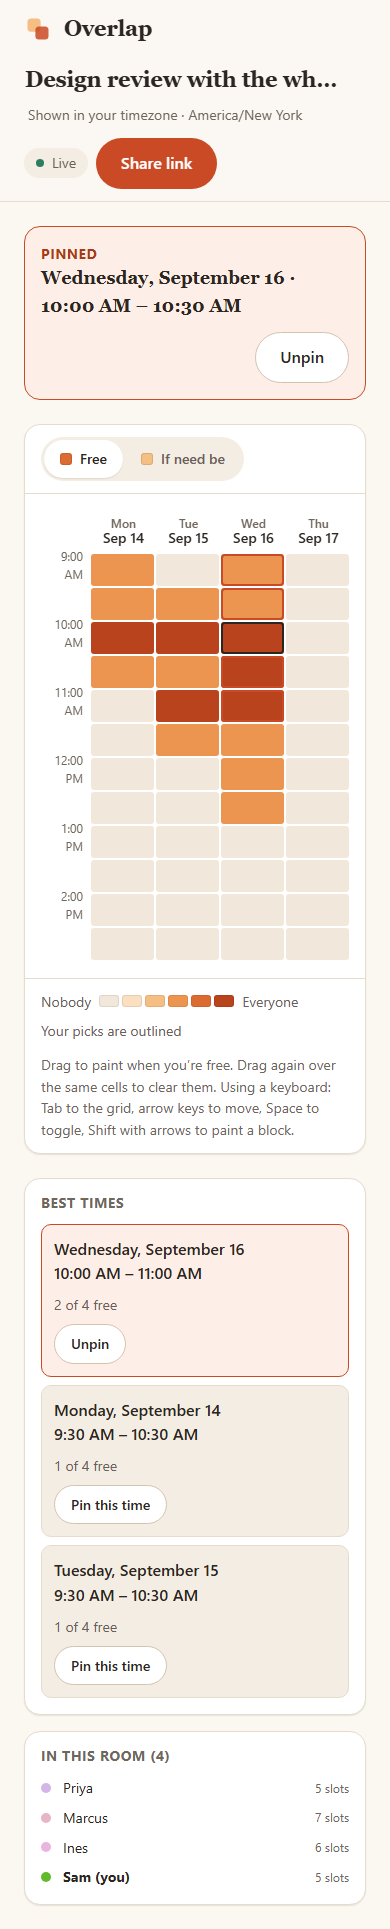
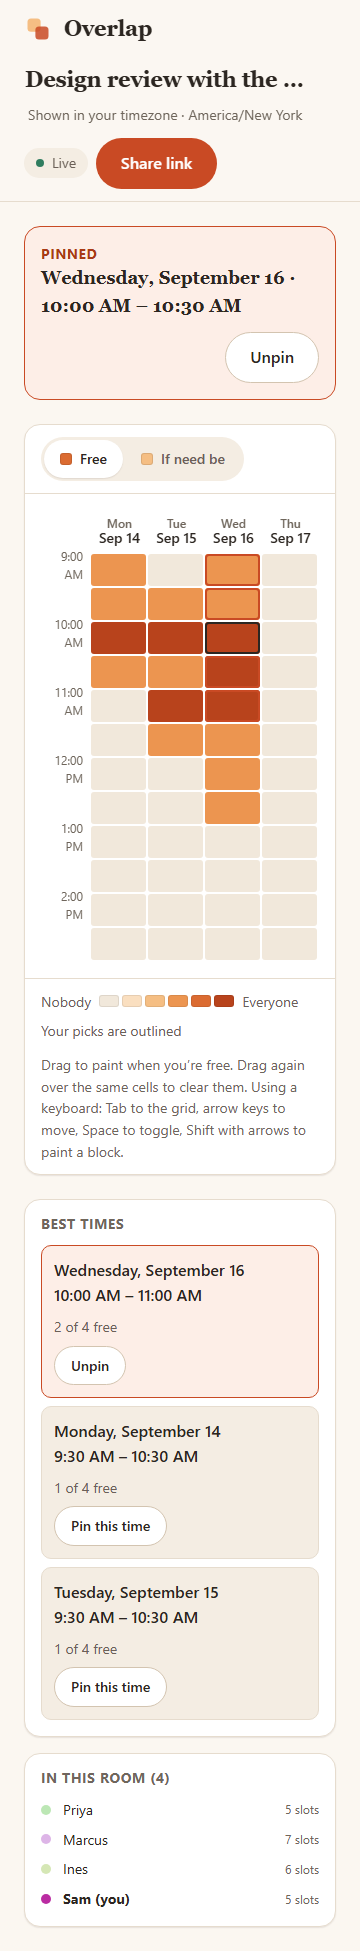
test(e2e): add per-route smoke coverage and re-shoot the evidence at 360

Changed region(s): [[0.0611, 0.0, 0.9472, 0.9953], [0.9167, 0.902, 0.9472, 0.9953]]

diff --git a/e2e/smoke.spec.ts b/e2e/smoke.spec.ts
@@ -1,0 +1,134 @@
+import { expect, test, type ConsoleMessage, type Page } from '@playwright/test';
+import { createRoomViaApi, joinRoom, ordinaryRoom } from './helpers.js';
+
+/**
+ * Per-route smoke: does it load, are the load-bearing elements there, and is the console clean.
+ *
+ * Deliberately separate from the journey specs. Those prove the product works; this proves every
+ * screen is *shippable* — nothing throwing in the background, nothing missing at 360px.
+ */
+
+interface Noise {
+  readonly kind: 'console' | 'pageerror' | 'requestfailed';
+  readonly text: string;
+}
+
+/**
+ * Everything the page complained about.
+ *
+ * Chrome logs a resource-level "Failed to load resource" for any non-2xx response, including
+ * ones the app asks for on purpose and handles — the room-existence probe answers 404 for a room
+ * that is genuinely gone, and that is the correct API design, not a defect. Rather than dropping
+ * those quietly, they are classified separately so a test can assert exactly which ones it
+ * expects and still fail on anything else.
+ */
+function watch(page: Page): { noise: Noise[]; probes: string[] } {
+  const noise: Noise[] = [];
+  const probes: string[] = [];
+
+  const isRoomProbe404 = (text: string): boolean =>
+    text.includes('Failed to load resource') && text.includes('404');
+
+  page.on('console', (message: ConsoleMessage) => {
+    const type = message.type();
+    if (type !== 'error' && type !== 'warning') return;
+    const text = message.text();
+    if (isRoomProbe404(text)) {
+      probes.push(text);
+      return;
+    }
+    noise.push({ kind: 'console', text: `${type}: ${text}` });
+  });
+
+  page.on('pageerror', (error) => {
+    noise.push({ kind: 'pageerror', text: error.message });
+  });
+
+  return { noise, probes };
+}
+
+const WIDTHS = [360, 768, 1440] as const;
+
+/** 360 is the floor the layout is designed to; nothing may spill sideways at any width. */
+async function expectNoSidewaysScroll(page: Page): Promise<void> {
+  for (const width of WIDTHS) {
+    await page.setViewportSize({ width, height: 800 });
+    await page.waitForTimeout(120);
+    const overflow = await page.evaluate(
+      () => document.documentElement.scrollWidth - document.documentElement.clientWidth,
+    );
+    expect(overflow, `page scrolls sideways at ${String(width)}px`).toBeLessThanOrEqual(1);
+  }
+}
+
+test.describe('every route loads clean', () => {
+  test('the landing page', async ({ page }) => {
+    const { noise, probes } = watch(page);
+
+    await page.goto('/');
+    await expect(page.getByRole('heading', { level: 1 })).toContainText('Find a time');
+    // The three-second test, as an assertion: what it does, and what to do first, both present
+    // without scrolling past the hero.
+    await expect(page.getByRole('button', { name: 'Create a room' })).toBeVisible();
+    await expect(page.locator('.demo__cells .demo__cell').first()).toBeVisible();
+    await expect(page.getByRole('button', { name: 'Create the room' })).toBeDisabled();
+
+    await expectNoSidewaysScroll(page);
+    expect(noise, 'console output on the landing page').toEqual([]);
+    expect(probes, 'the landing page probes nothing').toEqual([]);
+  });
+
+  test('the name prompt', async ({ page, request }) => {
+    const { noise } = watch(page);
+    const roomId = await createRoomViaApi(request, ordinaryRoom());
+
+    await page.goto(`/r/${roomId}`);
+    await expect(page.getByRole('dialog')).toBeVisible();
+    await expect(page.locator('#participant-name')).toBeFocused();
+    await expect(page.getByRole('button', { name: 'Start picking times' })).toBeDisabled();
+
+    await expectNoSidewaysScroll(page);
+    expect(noise, 'console output on the name prompt').toEqual([]);
+  });
+
+  test('a room you are the first into', async ({ page, request }) => {
+    const { noise } = watch(page);
+    const roomId = await createRoomViaApi(request, ordinaryRoom());
+    await joinRoom(page, roomId, 'Priya');
+
+    // Alone in a room, sharing is the primary action and the grid says what to do.
+    await expect(page.locator('.invite')).toBeVisible();
+    await expect(page.locator('.grid-invite__card')).toContainText('Drag across the times');
+    await expect(page.locator('.daylight-rail')).toBeVisible();
+    await expect(page.locator('.panel__title').first()).toBeVisible();
+
+    await expectNoSidewaysScroll(page);
+    expect(noise, 'console output in a room').toEqual([]);
+  });
+
+  test('a room that is gone', async ({ page }) => {
+    const { noise, probes } = watch(page);
+
+    await page.goto('/r/aaaaaaaaaaaaaaaaaaaaaa');
+    await expect(page.getByRole('heading', { name: /This room is gone/ })).toBeVisible();
+    await expect(page.getByRole('link', { name: 'Start a new room' })).toBeVisible();
+
+    await expectNoSidewaysScroll(page);
+    expect(noise, 'console output on the not-found screen').toEqual([]);
+    // Exactly one probe, and it is the one this screen exists to report. More than one would
+    // mean the client is retrying something it has already been given an answer about.
+    expect(probes).toHaveLength(1);
+  });
+
+  test('a link that was cut short', async ({ page }) => {
+    const { noise, probes } = watch(page);
+
+    await page.goto('/r/toshort');
+    await expect(page.getByRole('heading', { name: /This link is incomplete/ })).toBeVisible();
+
+    await expectNoSidewaysScroll(page);
+    expect(noise, 'console output on the broken-link screen').toEqual([]);
+    // Nothing is fetched at all: the id cannot be real, so there is nothing worth asking about.
+    expect(probes, 'a malformed id is rejected without a request').toEqual([]);
+  });
+});

diff --git a/design/capture.spec.ts b/design/capture.spec.ts
@@ -18,7 +18,9 @@ const API_ORIGIN = process.env.OVERLAP_BASE_URL ?? 'http://127.0.0.1:8787';
 const WIDTHS = [
   { name: 'desktop', width: 1440, height: 900 },
   { name: 'tablet', width: 768, height: 1024 },
-  { name: 'mobile', width: 390, height: 844 },
+  // 360 is the narrowest width the layout is designed to hold, so it is the one worth
+  // photographing. `e2e/smoke.spec.ts` asserts no sideways scroll at all three.
+  { name: 'mobile', width: 360, height: 800 },
 ] as const;
 
 interface ConsoleEntry {
@@ -198,6 +200,32 @@ test('an empty room, seen by its first arrival', async ({ page }) => {
   await joinRoom(page, roomId, 'Sam');
   await page.waitForTimeout(600);
   await shoot(page, '08-room-empty');
+});
+
+/**
+ * Dark mode, photographed rather than assumed.
+ *
+ * The palette is a rebalance rather than an inversion — the heat ramp has to keep climbing from
+ * near-background to bright, or the busiest cells stop being the loudest thing on screen — and
+ * that is not a claim a token file can make on its own.
+ */
+test('the room in dark mode', async ({ browser }) => {
+  const context = await browser.newContext({
+    timezoneId: 'America/New_York',
+    colorScheme: 'dark',
+    viewport: { width: 1440, height: 900 },
+  });
+  const page = await context.newPage();
+  watchConsole(page, 'dark');
+
+  const roomId = await makeRoom(page, 'Design review with the whole team');
+  await seedCrowd(browser, roomId);
+  await joinRoom(page, roomId, 'Sam');
+  await paint(page, 2, 18);
+  await page.waitForTimeout(600);
+  await shoot(page, '10-room-dark');
+
+  await context.close();
 });
 
 test.afterAll(async () => {

diff --git a/apps/web/src/styles/global.css b/apps/web/src/styles/global.css
@@ -805,11 +805,15 @@ a.button:hover {
   display: none;
 }
 
+/*
+ * A wide basis so the header *wraps* before the room name starts truncating. At `14rem` the
+ * name lost characters on a tablet while the wordmark beside it kept every one of its own.
+ */
 .room__identity {
   display: grid;
   gap: 2px;
   min-width: 0;
-  flex: 1 1 14rem;
+  flex: 1 1 22rem;
   order: -1;
   width: 100%;
 }
